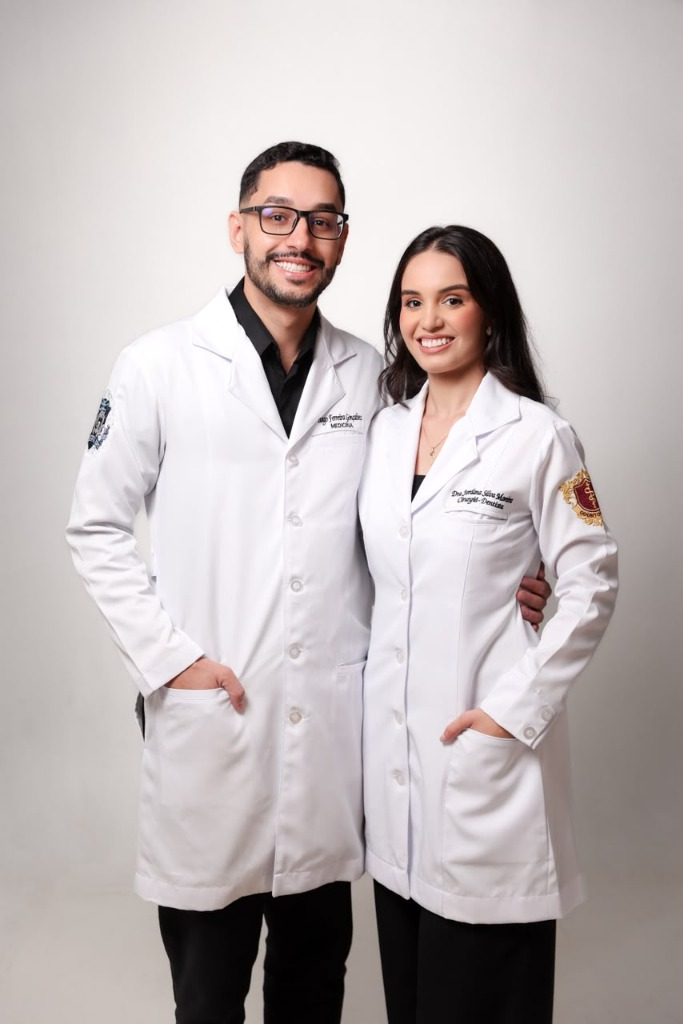
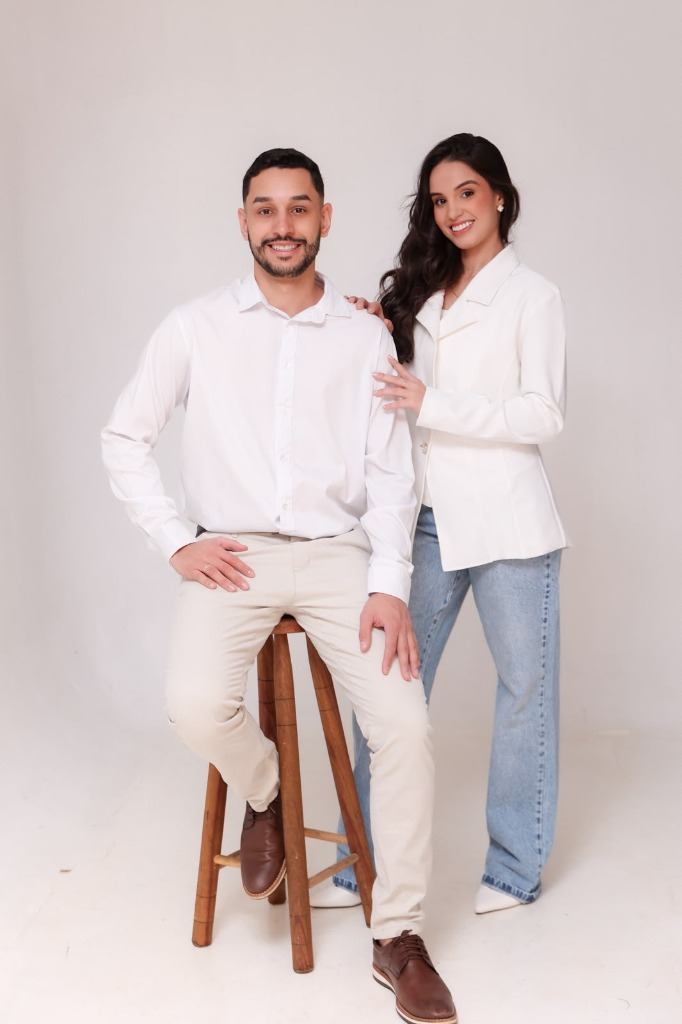
feat: atualiza foto dos fundadores e adiciona perfis do Instagram de Tiago e Jordana

diff --git a/index.html b/index.html
@@ -305,18 +305,30 @@
             <figure class="founders-frame">
               <div class="founders-image-wrapper">
                 <img
-                  src="assets/fundadores-tej.jpg"
+                  src="assets/fundadores-tej.jpg?v=2"
                   alt="Tiago e Jordana, fundadores da T&J Trabalhos Acadêmicos"
                   class="founders-photo"
                   loading="lazy"
                 />
               </div>
               <figcaption class="founders-caption">
-                <div class="founders-names">
-                  <strong>Tiago &amp; Jordana — T&amp;J</strong>
-                  <span>Amor e paixão pelo conhecimento</span>
+                <div class="founders-caption-top">
+                  <div class="founders-names">
+                    <strong>Tiago &amp; Jordana — T&amp;J</strong>
+                    <span>Amor e paixão pelo conhecimento</span>
+                  </div>
+                  <span class="year-badge">Desde 2024</span>
                 </div>
-                <span class="year-badge">Desde 2024</span>
+                <div class="founders-socials" aria-label="Instagram dos fundadores">
+                  <a href="https://www.instagram.com/ti_ferreira_gon/" target="_blank" rel="noopener noreferrer" class="insta-pill">
+                    <svg width="15" height="15" viewBox="0 0 24 24" fill="none" stroke="currentColor" stroke-width="2" aria-hidden="true"><rect x="2" y="2" width="20" height="20" rx="5" ry="5"/><path d="M16 11.37A4 4 0 1 1 12.63 8 4 4 0 0 1 16 11.37z"/><line x1="17.5" y1="6.5" x2="17.51" y2="6.5"/></svg>
+                    <span>@ti_ferreira_gon</span>
+                  </a>
+                  <a href="https://www.instagram.com/jordana_s._moreira/" target="_blank" rel="noopener noreferrer" class="insta-pill">
+                    <svg width="15" height="15" viewBox="0 0 24 24" fill="none" stroke="currentColor" stroke-width="2" aria-hidden="true"><rect x="2" y="2" width="20" height="20" rx="5" ry="5"/><path d="M16 11.37A4 4 0 1 1 12.63 8 4 4 0 0 1 16 11.37z"/><line x1="17.5" y1="6.5" x2="17.51" y2="6.5"/></svg>
+                    <span>@jordana_s._moreira</span>
+                  </a>
+                </div>
               </figcaption>
             </figure>
 
@@ -389,6 +401,16 @@
                   <h3>T&amp;J Trabalhos Acadêmicos</h3>
                   <span>Atendimento direto com Tiago &amp; Jordana</span>
                 </div>
+              </div>
+              <div class="founders-socials">
+                <a href="https://www.instagram.com/ti_ferreira_gon/" target="_blank" rel="noopener noreferrer" class="insta-pill">
+                  <svg width="15" height="15" viewBox="0 0 24 24" fill="none" stroke="currentColor" stroke-width="2" aria-hidden="true"><rect x="2" y="2" width="20" height="20" rx="5" ry="5"/><path d="M16 11.37A4 4 0 1 1 12.63 8 4 4 0 0 1 16 11.37z"/><line x1="17.5" y1="6.5" x2="17.51" y2="6.5"/></svg>
+                  <span>@ti_ferreira_gon</span>
+                </a>
+                <a href="https://www.instagram.com/jordana_s._moreira/" target="_blank" rel="noopener noreferrer" class="insta-pill">
+                  <svg width="15" height="15" viewBox="0 0 24 24" fill="none" stroke="currentColor" stroke-width="2" aria-hidden="true"><rect x="2" y="2" width="20" height="20" rx="5" ry="5"/><path d="M16 11.37A4 4 0 1 1 12.63 8 4 4 0 0 1 16 11.37z"/><line x1="17.5" y1="6.5" x2="17.51" y2="6.5"/></svg>
+                  <span>@jordana_s._moreira</span>
+                </a>
               </div>
               <a href="https://wa.me/5562999715309" target="_blank" rel="noopener noreferrer" class="btn btn-secondary btn-full">
                 Chamar diretamente no WhatsApp
@@ -475,13 +497,14 @@
       </div>
 
       <div class="footer-links">
-        <h3>Navegação</h3>
+        <h3>Navegação &amp; Instagram</h3>
         <ul>
           <li><a href="#topo">Início</a></li>
           <li><a href="#servicos">Demandas Acadêmicas</a></li>
           <li><a href="#compromisso">Nosso Compromisso</a></li>
           <li><a href="#historia">Nossa História</a></li>
-          <li><a href="#orcamento">Falar Conosco</a></li>
+          <li><a href="https://www.instagram.com/ti_ferreira_gon/" target="_blank" rel="noopener noreferrer">Instagram: @ti_ferreira_gon</a></li>
+          <li><a href="https://www.instagram.com/jordana_s._moreira/" target="_blank" rel="noopener noreferrer">Instagram: @jordana_s._moreira</a></li>
         </ul>
       </div>
     </div>

diff --git a/styles.css b/styles.css
@@ -855,7 +855,7 @@ img {
 .founders-image-wrapper {
   border-radius: var(--radius-md);
   overflow: hidden;
-  aspect-ratio: 4 / 4.8;
+  aspect-ratio: 3 / 4.1;
   background-color: #EAECE9;
 }
 
@@ -863,7 +863,7 @@ img {
   width: 100%;
   height: 100%;
   object-fit: cover;
-  object-position: center 18%;
+  object-position: center 12%;
   transition: transform 500ms var(--ease-out);
 }
 
@@ -875,10 +875,43 @@ img {
 
 .founders-caption {
   display: flex;
+  flex-direction: column;
+  gap: 0.85rem;
+  padding: 1rem 0.5rem 0.25rem;
+}
+
+.founders-caption-top {
+  display: flex;
   align-items: center;
   justify-content: space-between;
   gap: 1rem;
-  padding: 1rem 0.5rem 0.25rem;
+}
+
+.founders-socials {
+  display: flex;
+  flex-wrap: wrap;
+  gap: 0.55rem;
+}
+
+.insta-pill {
+  display: inline-flex;
+  align-items: center;
+  gap: 0.45rem;
+  background-color: var(--bg-subtle);
+  color: var(--brand-primary);
+  border: 1px solid var(--border-subtle);
+  border-radius: 999px;
+  padding: 0.38rem 0.8rem;
+  font-size: 0.82rem;
+  font-weight: 600;
+  text-decoration: none;
+  transition: background-color 160ms ease, color 160ms ease, border-color 160ms ease, transform 120ms ease;
+}
+
+.insta-pill:hover {
+  background-color: var(--brand-primary);
+  color: #FFFFFF;
+  border-color: var(--brand-primary);
 }
 
 .founders-names {
